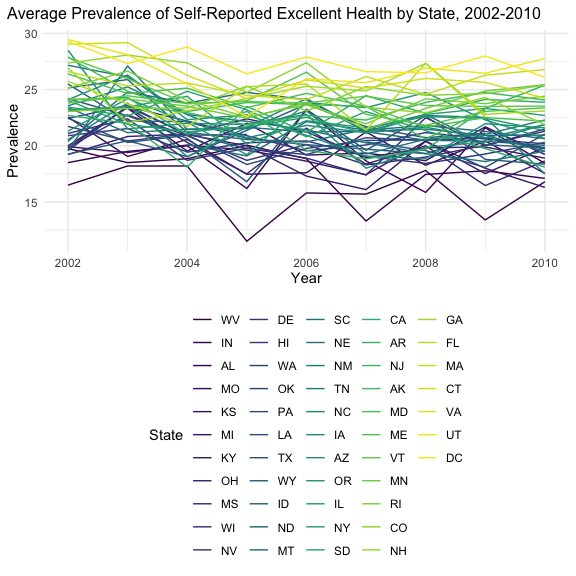
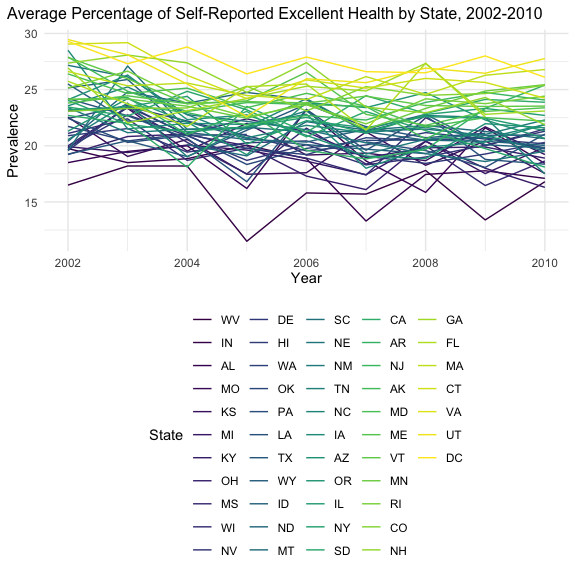
Updated plots for Problem 2

Changed region(s): [[0.125, 0.0, 0.9375, 0.0625]]

diff --git a/p8105_hw3_cjd2195.md b/p8105_hw3_cjd2195.md
@@ -233,7 +233,7 @@ tidy_brfss |>
   ggplot(aes(x = year, y = average_state_prevalence, color = fct_reorder(location_abbr, average_state_prevalence))) +
   geom_line() + 
   labs(
-    title = "Average Prevalence of Self-Reported Excellent Health by State, 2002-2010",
+    title = "Average Percentage of Self-Reported Excellent Health by State, 2002-2010",
     x = "Year",
     y = "Prevalence",
     color = "State"
@@ -250,10 +250,34 @@ tidy_brfss |>
 tidy_brfss |> 
   filter(year == 2006 | year == 2010) |> 
   filter(location_abbr == "NY") |> 
-  group_by(year, location_desc) |> 
-  ggplot(aes(x = data_value, y = location_desc, fill = response)) +
-  geom_col() +
-  facet_grid(. ~ year)
+  group_by(year, response) |> 
+  ggplot(aes(x = data_value, fill = response)) +
+  geom_density(alpha = .5) +
+  facet_grid(.~year) + 
+  labs(
+    title = "Distributions of Overall Health Responses Among NY Locations, 2006 and 2010",
+    x = "Reported Percentage",
+    y = "Density"
+  ) +
+  theme(plot.title = element_text(size = 12), plot.title.position = "plot")
 ```
 
 <img src="p8105_hw3_cjd2195_files/figure-gfm/unnamed-chunk-10-1.png" width="90%" />
+
+``` r
+tidy_brfss |> 
+  filter(year == 2006 | year == 2010) |> 
+  filter(location_abbr == "NY") |> 
+  group_by(year, response) |> 
+  ggplot(aes(x = response, y = data_value)) +
+  geom_boxplot() +
+  facet_grid(.~year) +
+  labs(
+    title = "Distributions of Overall Health Responses Among NY Locations, 2006 and 2010",
+    x = "Response",
+    y = "Reported Percentage"
+  ) + 
+  theme(plot.title = element_text(size = 12), plot.title.position = "plot")
+```
+
+<img src="p8105_hw3_cjd2195_files/figure-gfm/unnamed-chunk-10-2.png" width="90%" />
